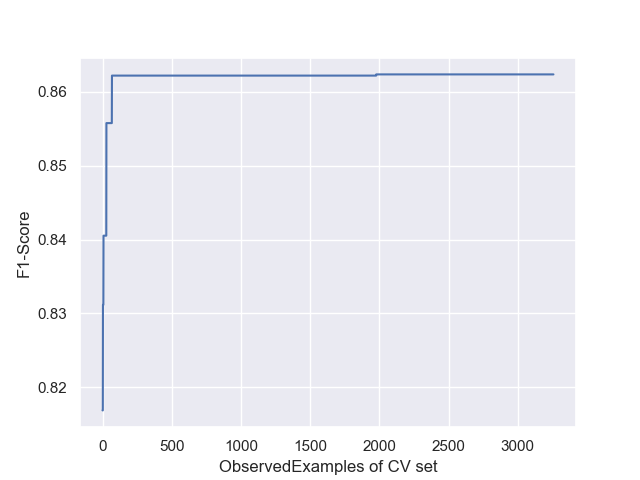
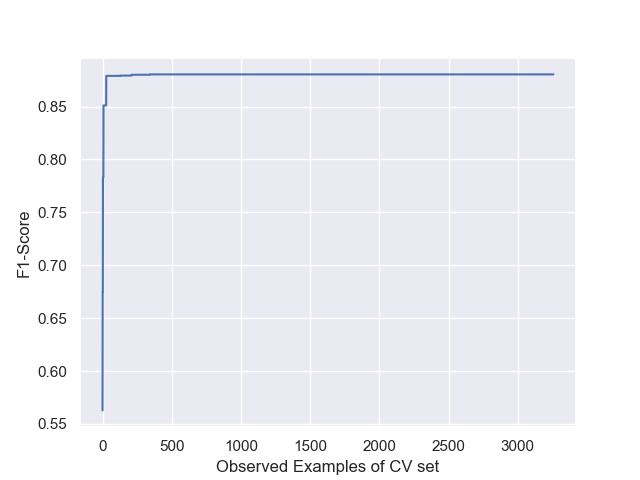
Updated

diff --git a/main.py b/main.py
@@ -2,7 +2,6 @@ import pandas as pd
 import numpy as np
 import matplotlib as mlp
 import matplotlib.pyplot as plt
-from sklearn.metrics import f1_score
 from sklearn.metrics import recall_score
 from sklearn.metrics import accuracy_score
 
@@ -10,13 +9,18 @@ import seaborn as sns
 
 
 def splitData(dataset):
+
 	frames = [frame for _,frame in dataset.groupby('y')]
 	negds=frames[0]
 	posds=frames[1]
 
-	train, cv, test = np.split(negds, [int(0.7*len(negds)), int(0.85*len(negds))])
+	train, test = np.split(negds, [int(0.7*len(negds))])
 
-	cv_pos, test_pos=  np.split(posds, [int(0.5*len(posds))])
+	test=test.sample(frac=1)
+	cv, test = np.split(test, [int(0.5*len(test))])
+
+	posds=posds.sample(frac=1)
+	cv_pos, test_pos = np.split(posds, [int(0.5*len(posds))])
 
 	cv=cv.append(cv_pos)
 	test=test.append(test_pos)
@@ -169,8 +173,10 @@ for epsilon in cv_pval:
 		bestEpsilon=epsilon
 	history.append(bestF1)
 
+print('F1-score of the model on CV data: ',bestF1)
+
 plt.plot (history)
-plt.xlabel('ObservedExamples of CV set')
+plt.xlabel('Observed Examples of CV set')
 plt.ylabel('F1-Score')
 plt.savefig('img/history.png')
 plt.close()
@@ -190,7 +196,7 @@ acc=accuracy_score(test_labels,pred)
 recall=recall_score(test_labels,pred)
 
 testF1= 2*acc*recall/(acc+recall)
-
+print('F1-score of the model on Test data: ',testF1)
 
 	
 

diff --git a/README.md b/README.md
@@ -4,7 +4,7 @@ Identifying Pulsar Stars in a dataset of astronomical objects with Anomaly Detec
 ## Description
 The dataset contains only a few entries of Pulsar-Stars(1639:Positive, 16259:Negative). Considering those as anomalies, built a model to fit the non-anomalous data using 
 Gaussian-Distribution. The training set only consists of non-anamolous examples while the Cross-Validation and Test sets consists of both the anomalous and non-anomalous
-data for evaluation. Trained a model on the non-anamolous training data achieving the F1-Score of 0.8917 on test set.
+data for evaluation. Trained a model on the non-anamolous training data achieving the F1-Score of 0.8804 on Cross-Validation set and 0.8767 on test set.
 
 ## Technologies
 * Python3
@@ -16,7 +16,7 @@ data for evaluation. Trained a model on the non-anamolous training data achievin
 
 ## Initial Pairplot
 
-[](img/init_pairplot.png?raw=true "Title")
+![](img/init_pairplot.png?raw=true "Title")
 
 Observing the pairplot of training data,
 
@@ -43,27 +43,47 @@ Adding new features to training data(as well as cross validation and test data)
   * x10 = x1/x3
   * x11 = x2/x3
   * x12 = x4/x5
-  * x13 = x4/x6
+  * x13 = x6/x4
   * x14 = x4/x7
-  * x15 = x5/x6
-  * x16 = x5/x7
+  * x15 = x6/x5
+  * x16 = x7/x5
   * x17 = x6/x7
 
 which leads to a histogram of training data
 ![](img/init_hist.png?raw=true "Title")
 
 Notice the variance and standard deviation of the added features, those are very less which makes it easier for the model to differentiate anomalies.
-Since the range of the features are 
+
+
+## Feature-Scaling
+Since the range of the features varies heavily, the features are scaled.
+
+   x<sup>(i)</sup><sub>j</sub> = (x<sup>(i)</sup><sub>j</sub> - &mu;<sub>j</sub>) / &sigma;<sub>j</sub>
 
 ## Transforming the features to Gaussian-like
 
-Using log, squareroot and other transformation techniques, we can convert a feature to Gaussian-like. 
+Using log, squareroot and other transformation techniques, a feature can be transformed to Gaussian-like. 
 The transformed features of training data have a histogram
 ![](img/transformed_hist.png?raw=true "Title")
 
 # Performance on Cross-Validation and Test data
 
-Using the mean and std of training data,
-We evaluate the examples of CV data
+Considering the features of training data as Gaussian, we build a Gaussian Distribution model and fit the parameters Mean and Standerd Deviation.
+
+Using the mean and std of the Gaussian Distribution model,
+We calculte the density estimation of the examples of CV data.
 
 
+Density Estimation of the example x<sup>(i)</sup> = p(x<sup>(i)</sup><sub>0</sub>; &mu;<sub>0</sub>, &sigma;<sub>0</sub><sup>2</sup>) * p(x<sup>(i)</sup><sub>1</sub>; &mu;<sub>1</sub>, &sigma;<sub>1</sub><sup>2</sup>) * p(x<sup>(i)</sup><sub>2</sub>; &mu;<sub>2</sub>, &sigma;<sub>2</sub><sup>2</sup>) * ...... * p(x<sup>(i)</sup><sub>17</sub>; &mu;<sub>17</sub>, &sigma;<sub>17</sub><sup>2</sup>)
+
+where
+
+![](https://latex.codecogs.com/svg.latex?\Large&space;p({x^{(i)}_j};\mu_j,\sigma_j^2)=\frac{1}{\sqrt{2\pi}\sigma_j}e^{-(\frac{x^{(i)}_j-\mu_j}{\sigma_j})^2}) 
+
+<!-- p(x<sup>(i)</sup><sub>j</sub>; &mu;<sub>j</sub>, &sigma;<sub>j</sub>)= e<sup>{-(x<sup>{(i)}</sup><sub>j</sub>- &mu;<sub>j</sub>)/&sigma;<sub>j</sub>)<sup>2</sup>}</sup> -->
+
+Note: Density Estimation is different from probabilities. Probabilities range from 0 to 1. While Density Estimation of the mean of a Gaussian distribution with &sigma; < 1 will be greater than 1.
+  
+After calculating Density estimation for all the examples of Cross-Validation data, the Density Estimation which performs best classifying the CV examples is selected as the optimal threshold.
+
+![](img/history.png?raw=true "Title")
